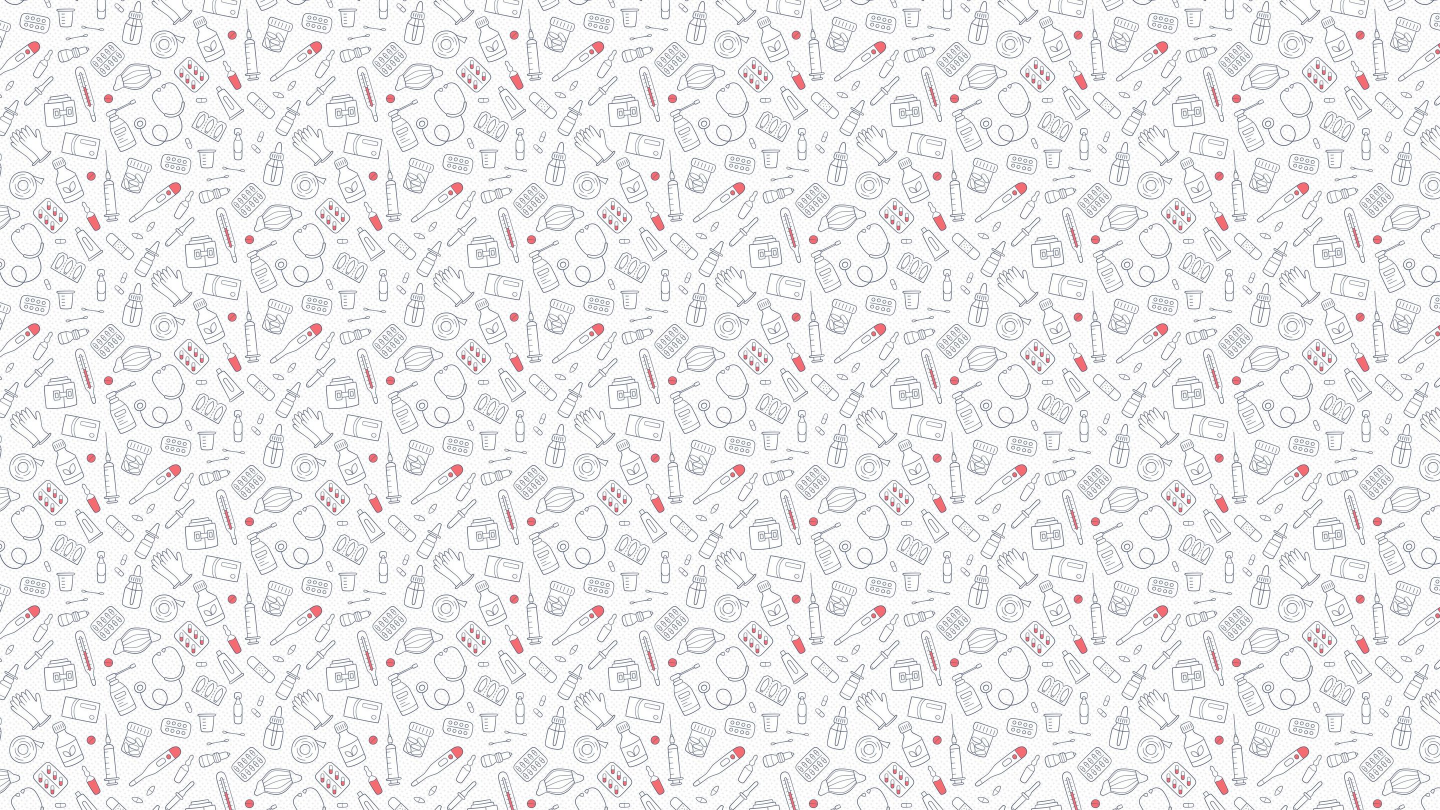
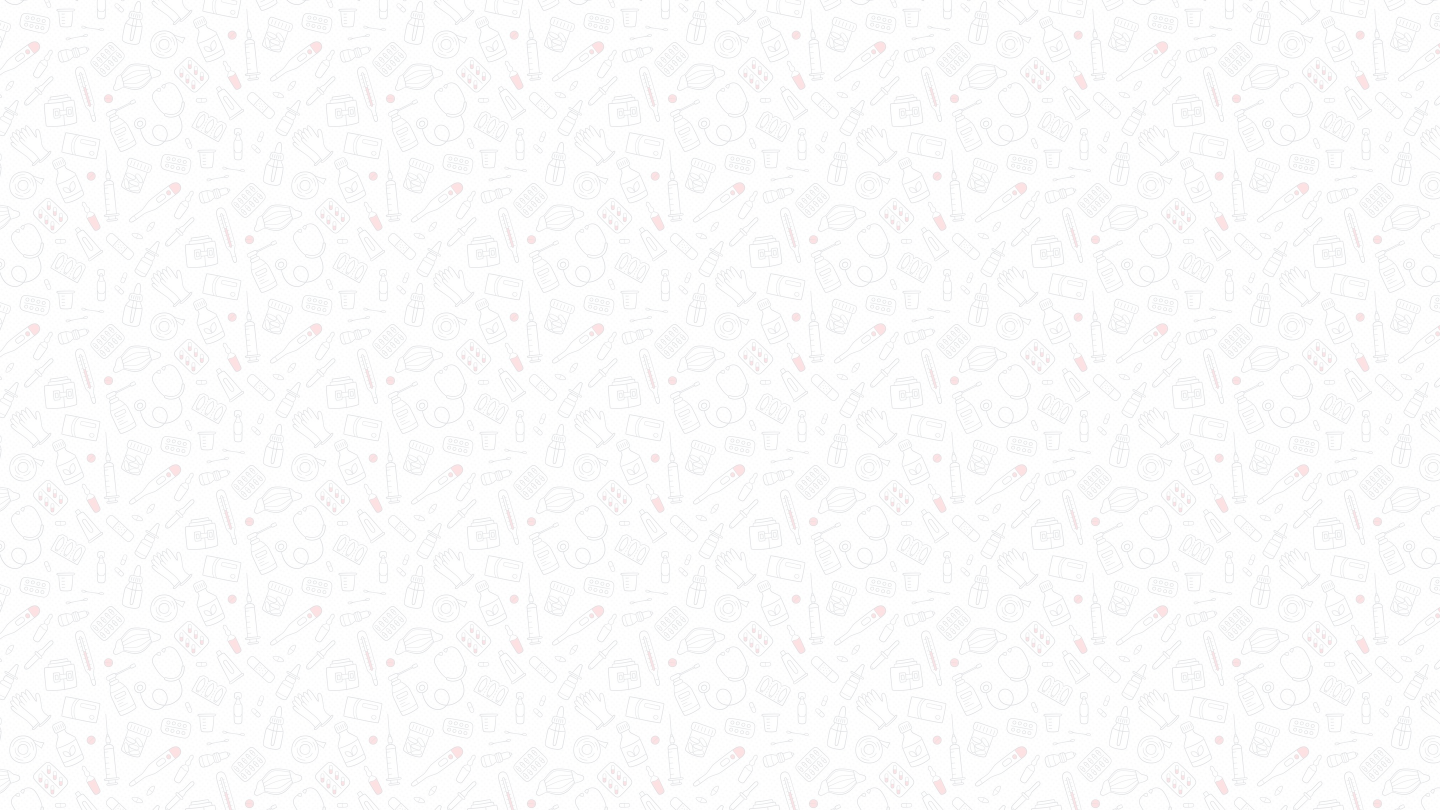
chore: adiciona dependências para rodar o projeto

Changed region(s): [[0.0, 0.0, 1.0, 1.0]]

diff --git a/clinicasmedicas/templates/index.html b/clinicasmedicas/templates/index.html
@@ -10,42 +10,36 @@
       crossorigin="anonymous"
     />
 
-    <style>
-
-body {
-      background-image: url('../templates/background.png');
-      background-size: cover;
-      background-position: center;
-    }
-    .rect-container {
-      display: flex;
-      flex-direction: row; 
-      align-items: center; 
-      justify-content: space-between; 
-      height: 8px;
-    }
-    
-    .rect {
-      width: 25%; 
-      height: 100%; 
-    }
-    
-    .rect-1 {
-      background-color: #87CEEB;
-    }
-    
-    .rect-2 {
-      background-color: #8FBC8F;
-    }
-    
-    .rect-3 {
-      background-color: #FFC0CB;
-    }
-    
-    .rect-4 {
-      background-color: #D3D3D3;
-    }
-  </style>
+    <style> 
+      .rect-container {
+        display: flex;
+        flex-direction: row; 
+        align-items: center; 
+        justify-content: space-between; 
+        height: 8px;
+      }
+      
+      .rect {
+        width: 25%; 
+        height: 100%; 
+      }
+      
+      .rect-1 {
+        background-color: #87CEEB;
+      }
+      
+      .rect-2 {
+        background-color: #8FBC8F;
+      }
+      
+      .rect-3 {
+        background-color: #FFC0CB;
+      }
+      
+      .rect-4 {
+        background-color: #D3D3D3;
+      }
+    </style>
   </head>
 
   <body style="width: 100%; display: flex; align-items: center; justify-content: center; flex-direction: column;">

diff --git a/clinicasmedicas/templates/form.html b/clinicasmedicas/templates/form.html
@@ -56,7 +56,8 @@
         <h2 class="text-center mb-4">Cadastrar nova clínica</h2>
         <div class="row justify-content-center">
           <div class="col-12 col-md-8 col-lg-6">
-            <form id="form-cadastro">
+            <form name="Form" id="form" action="/create/" method="post">
+              {% csrf_token %}
               <div class="mb-3">
                 <label for="codigo" class="form-label">Código:</label>
                 <input type="text" class="form-control" id="codigo" name="codigo" required maxlength="50">
